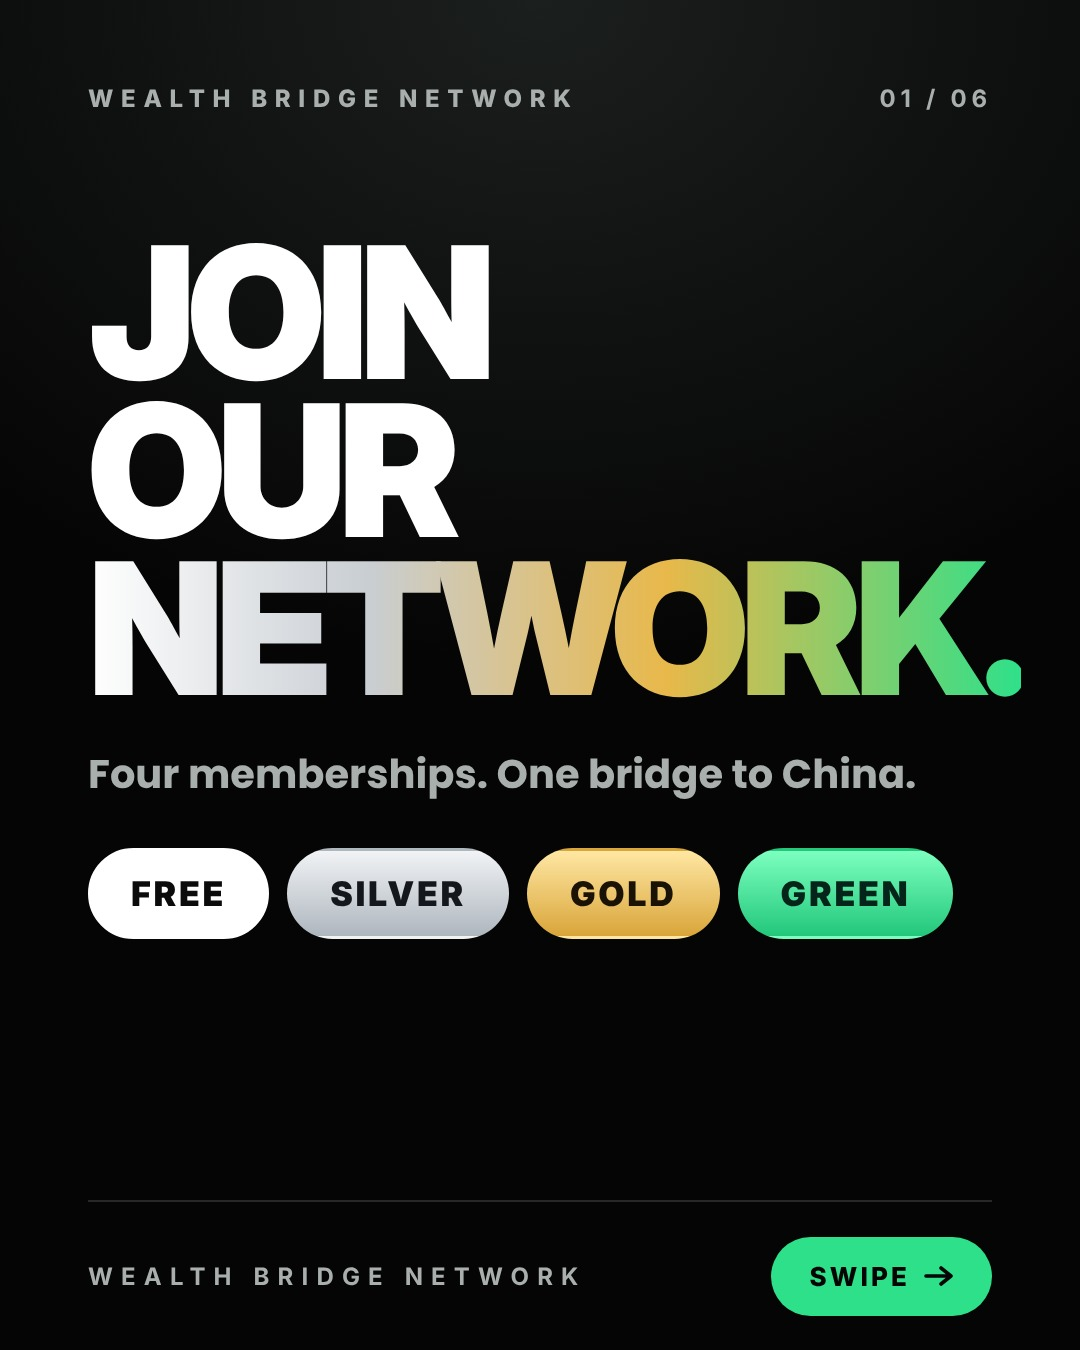
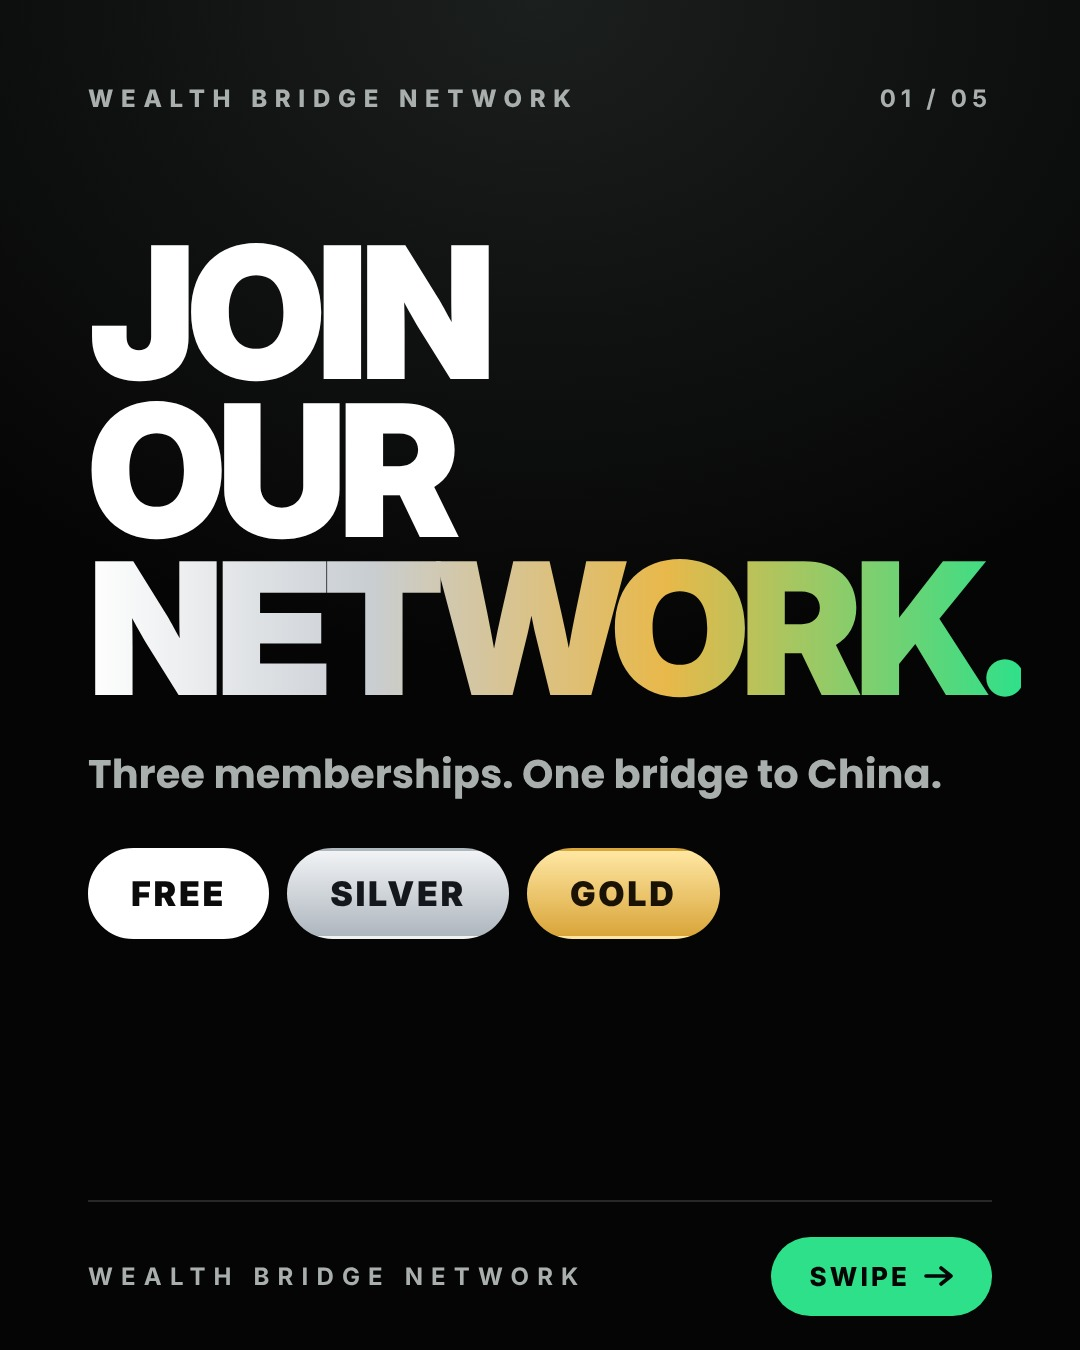
Membership carousel: remove Green tier (5 slides)
Claude-Session: https://claude.ai/code/session_01XWHiAw1FC92SEhPtnn4Xv2

Changed region(s): [[0.0611, 0.56, 0.8861, 0.5911], [0.6722, 0.6222, 0.8861, 0.7156]]

diff --git a/content/membership.py b/content/membership.py
@@ -10,13 +10,13 @@ LINK = "Join at the *link in bio.*"
 
 POSTS = [
 dict(id="m1-memberships", pillar="Membership", title="Join our network",
- caption=caption("Join the Wealth Bridge Network: Free, Silver, Gold and Green.",
-                 "Free: create an account, browse and get the newsletter. Silver: apartment listings, brand deals, jobs and universities, and member-only webinars. Gold: everything in Silver plus A.I. tools, early access to ALL opportunities and vetted manufacturers. Green (coming soon): list your company. Go to the link in bio to join.",
+ caption=caption("Join the Wealth Bridge Network: Free, Silver and Gold.",
+                 "Free: create an account, browse and get the newsletter. Silver: apartment listings, brand deals, jobs and universities, and member-only webinars. Gold: everything in Silver plus A.I. tools, early access to ALL opportunities and vetted manufacturers. Go to the link in bio to join.",
                  "#ugccreator #branddeals #creatoreconomy #membership"),
  slides=[
  dict(type="cover", title=["Join", "our", "*network.*"], size=184,
-      sub="Four memberships. One bridge to China.",
-      pills=[("FREE", "free"), ("SILVER", "silver"), ("GOLD", "gold"), ("GREEN", "green")]),
+      sub="Three memberships. One bridge to China.",
+      pills=[("FREE", "free"), ("SILVER", "silver"), ("GOLD", "gold")]),
  dict(type="tier", theme="free", name="Free", letter="F", kicker=LINK,
       items=["Create your account", "Browse the network", "Access to the newsletter", "Limited features"], **{"is": 50, "gap": 30}),
  dict(type="tier", theme="silver", name="Silver", letter="S", kicker=LINK, size=236,
@@ -25,10 +25,8 @@ dict(id="m1-memberships", pillar="Membership", title="Join our network",
  dict(type="tier", theme="gold", name="Gold", letter="G", kicker=LINK,
       items=["Everything in Silver", "*A.I. tools*", "Early access to ALL opportunities", "First in line for brand deals & jobs",
              "Vetted manufacturers", "Priority support & events", "Gold symbol on your profile"], **{"is": 37, "gap": 18}),
- dict(type="tier", theme="green", name="Green", letter="G", kicker="Coming soon. For companies.", size=236,
-      items=["List your company", "Free for approved companies", "Green company symbol", "Join the list at the link in bio"], **{"is": 46, "gap": 30}),
  dict(type="cta", title=["Ready", "to *join?*"], size=210,
       sub="Pick your membership and join the network today.",
-      pills=[("FREE", "free"), ("SILVER", "silver"), ("GOLD", "gold"), ("GREEN", "green")], button="Link in bio"),
+      pills=[("FREE", "free"), ("SILVER", "silver"), ("GOLD", "gold")], button="Link in bio"),
 ]),
 ]
